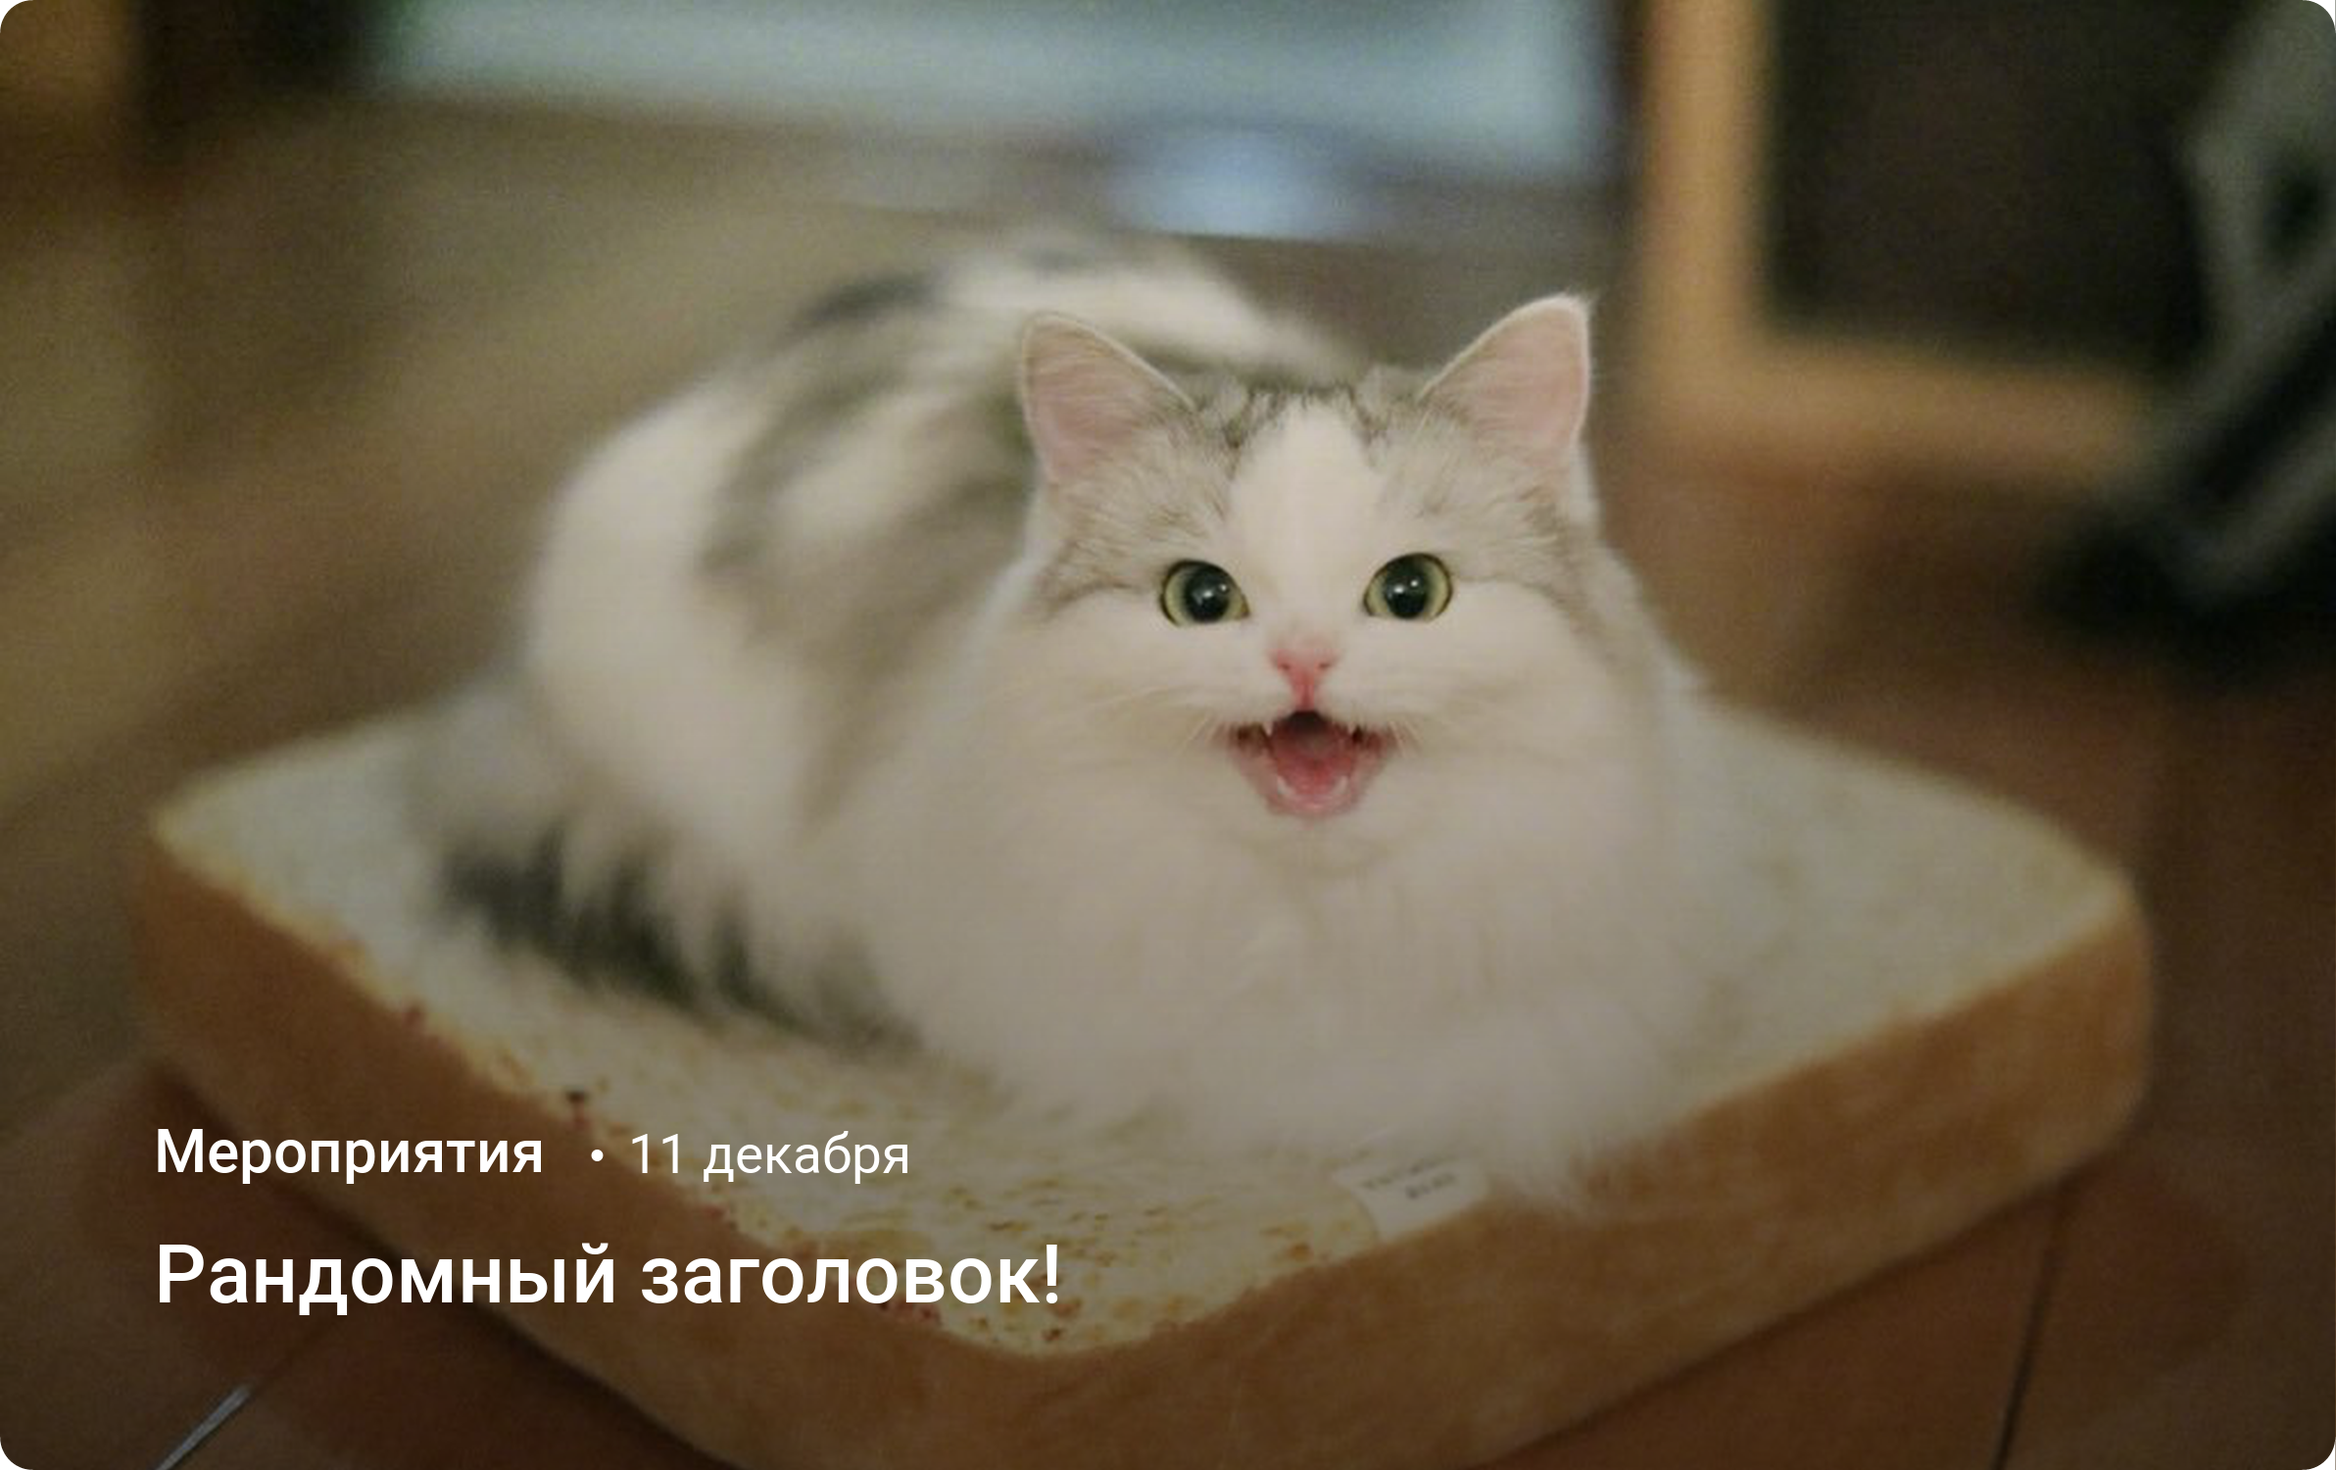
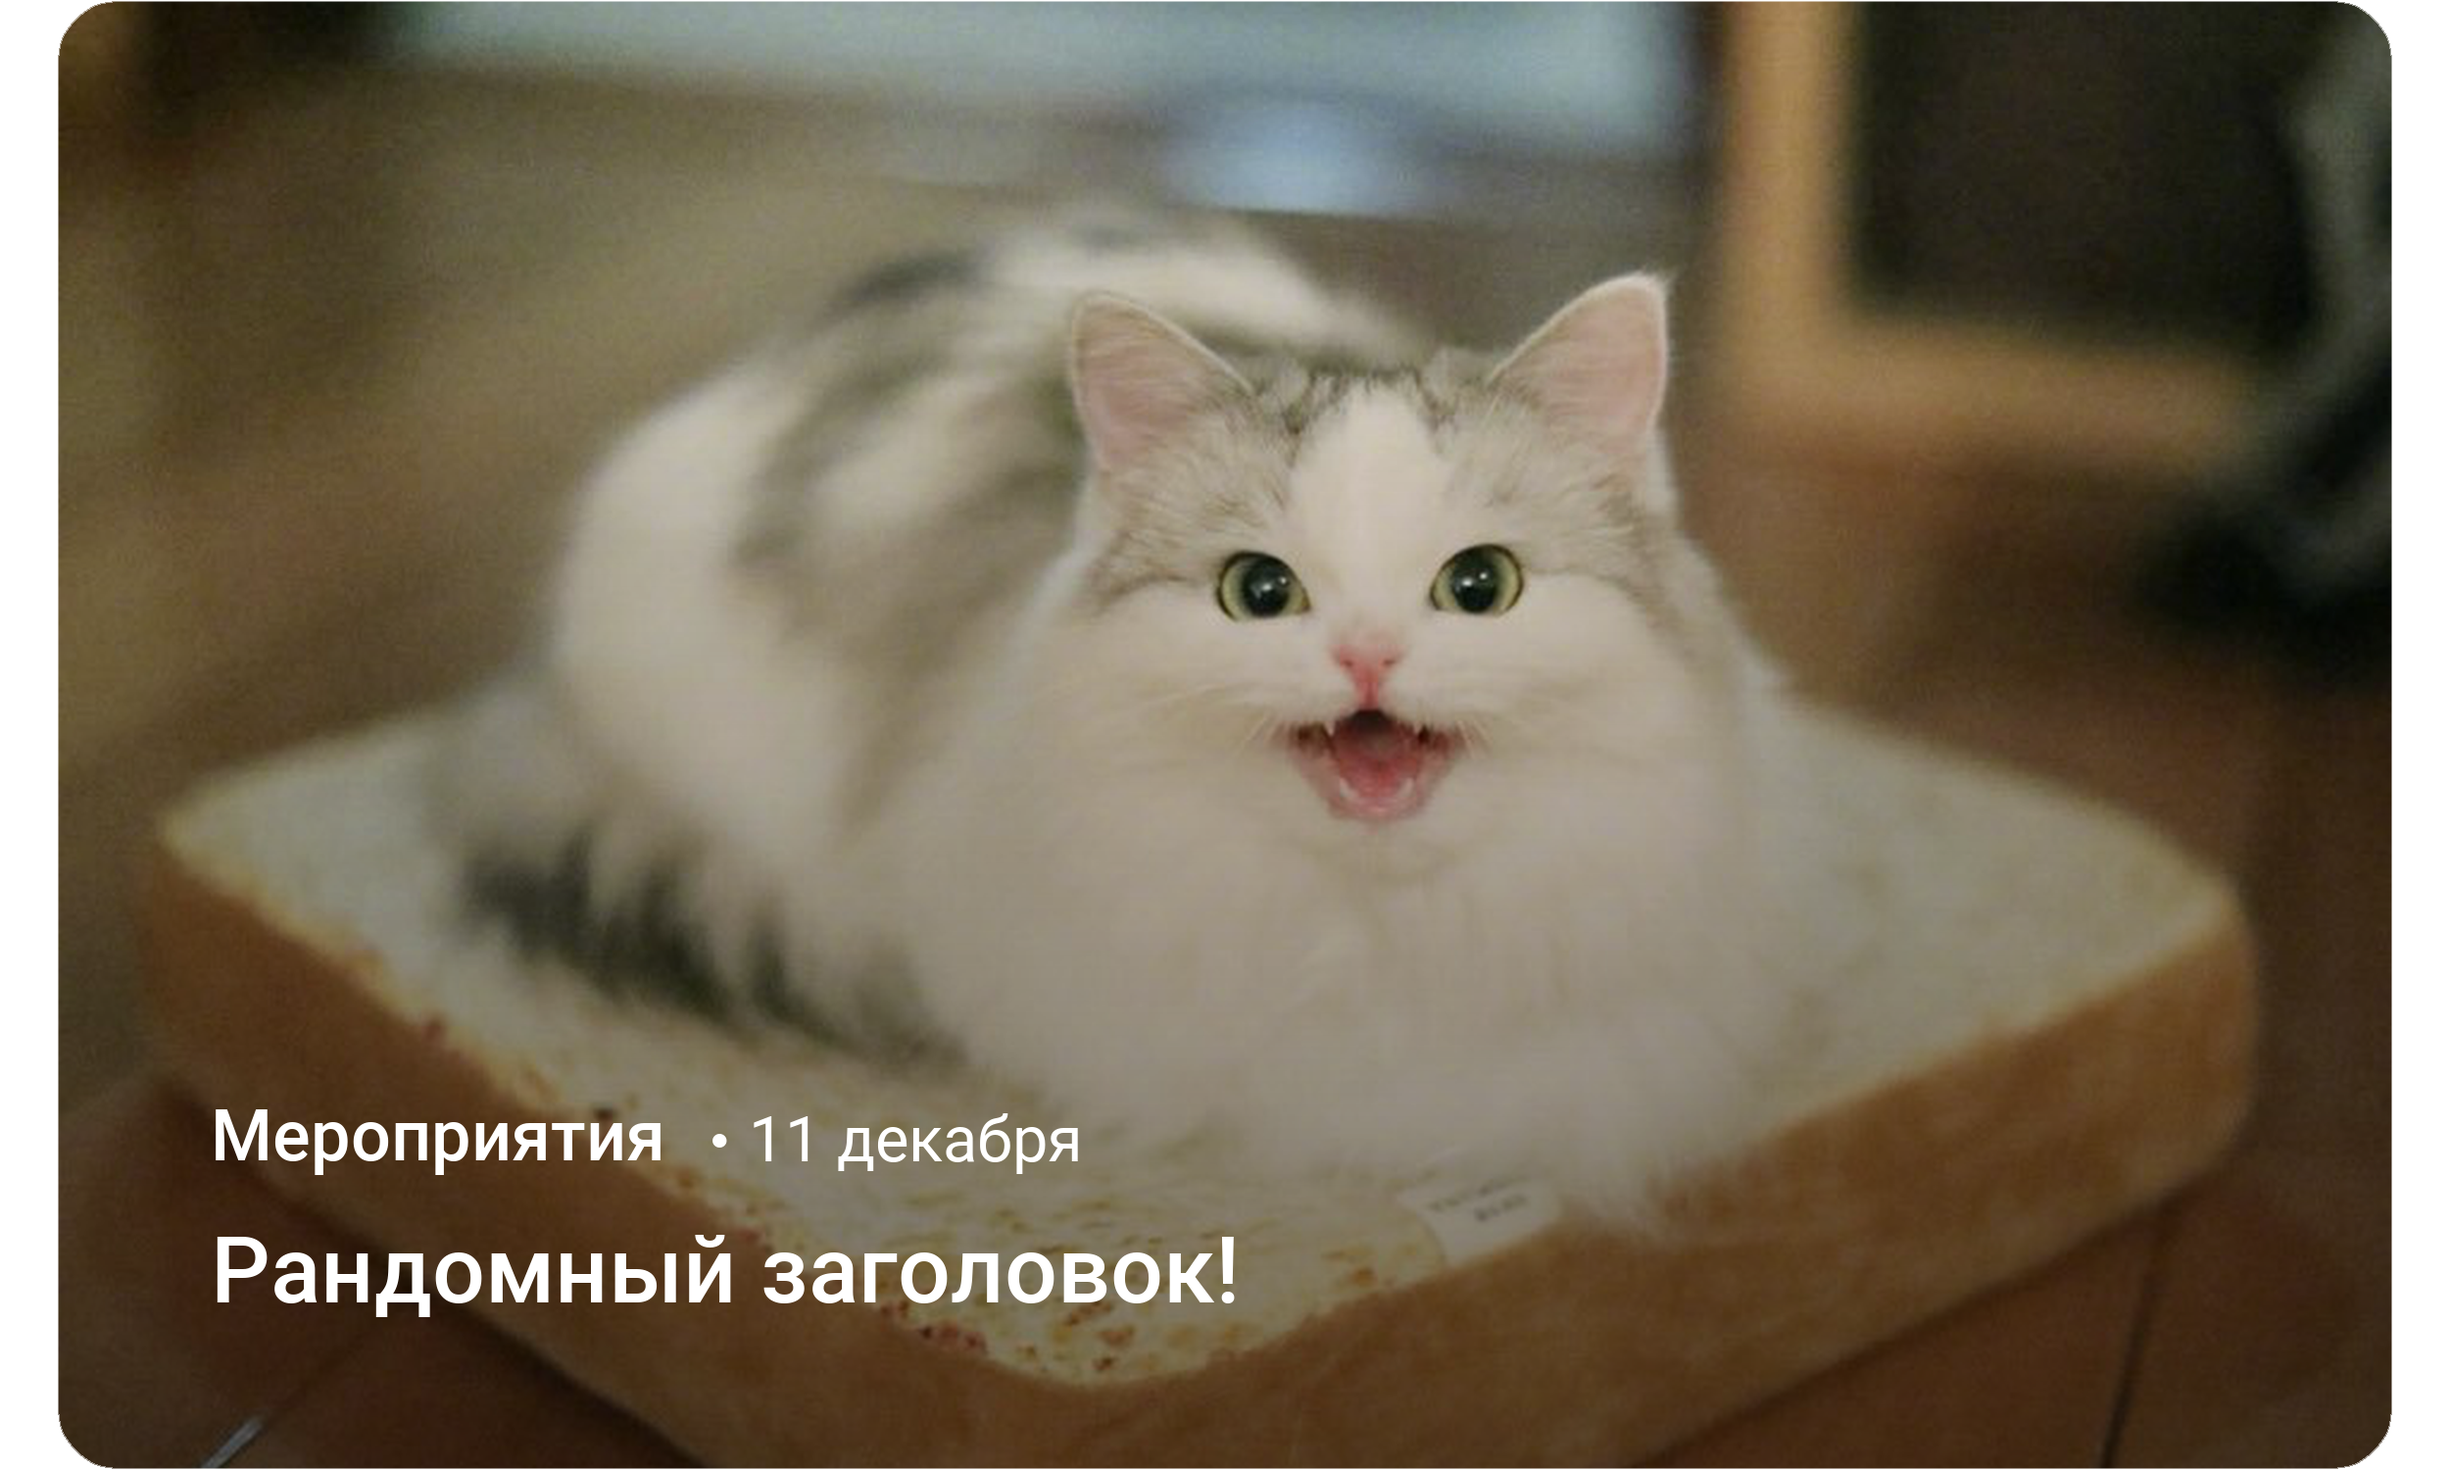
Mobile adaptive template

diff --git a/photo.py b/photo.py
@@ -8,9 +8,11 @@ def mass_media_old(template, background, text, width, height):
 	canvas.paste(background, (int(width * 0.1), 0))
 	canvas.paste(template, (0, 0), template)
 
-	draw = ImageDraw.Draw(canvas)
-	font = ImageFont.truetype('fonts/FS Joey Pro.otf', 60)
+	# Заголовок
 
+	draw = ImageDraw.Draw(canvas)
+
+	font = ImageFont.truetype('fonts/FS Joey Pro.otf', 60)
 	text_w, text_h = draw.textsize(text, font=font)
 	draw.text(((1.12 * width - text_w) // 2, int(0.87 * height)), text, font=font, fill='#ed2c2d')
 
@@ -21,9 +23,11 @@ def instagram(template, background, text, width, height):
 
 	background.paste(template, (0, 0), template)
 
-	draw = ImageDraw.Draw(background)
-	font = ImageFont.truetype('fonts/GOST Type A.ttf', int(0.092 * height))
+	# Заголовок
 
+	draw = ImageDraw.Draw(background)
+
+	font = ImageFont.truetype('fonts/GOST Type A.ttf', int(0.092 * height))
 	text_w, text_h = draw.textsize(text, font=font)
 	draw.text(((width - text_w) // 2, int(0.906 * height)), text, font=font, fill='#fff')
 
@@ -33,35 +37,34 @@ def mass_media_wylsa(template, background, text, width, height):
 	background.paste(template, (0, 0), template)
 
 	draw = ImageDraw.Draw(background)
-	font = ImageFont.truetype('fonts/Roboto Medium.ttf', 62)
 
-	# Тег
+	# Категория
 
 	first, last = text.find('#'), text.rfind('#')
 
 	tag = text[first+1:] if first == last else text[first+1:last]
 	tag = tag.title().strip()
 
+	font = ImageFont.truetype('fonts/Roboto Medium.ttf', 72)
 	text_w, text_h = draw.textsize(tag, font=font)
-	draw.text((157, height - 362), tag, font=font, fill='#fff')
+	draw.text((58 + 157, height - 383), tag, font=font, fill='#fff')
 
 	# Время
 
 	if first != last:
 		tim = text[last+1:].lower().strip()
 
-		font = ImageFont.truetype('fonts/Arial.ttf', 48)
-		draw.text((202 + text_w, height - 348), '•', font=font, fill='#fff')
+		font = ImageFont.truetype('fonts/Arial.ttf', 58)
+		draw.text((58 + 194 + text_w, height - 369), '•', font=font, fill='#fff')
 
-		font = ImageFont.truetype('fonts/Roboto Normal.ttf', 55)
-		draw.text((242 + text_w, height - 355), tim, font=font, fill='#fff')
+		font = ImageFont.truetype('fonts/Roboto Normal.ttf', 65)
+		draw.text((58 + 246 + text_w, height - 377), tim, font=font, fill='#fff')
 
-	# Основной заголовок
+	# Заголовок
 
-	font = ImageFont.truetype('fonts/Roboto Medium.ttf', 84)
-
+	font = ImageFont.truetype('fonts/Roboto Medium.ttf', 95)
 	text_w, text_h = draw.textsize(text[:first], font=font)
-	draw.text((157, height - 249), text[:first].strip(), font=font, fill='#fff')
+	draw.text((58 + 157, height - 260), text[:first].strip(), font=font, fill='#fff')
 
 	return background
 
